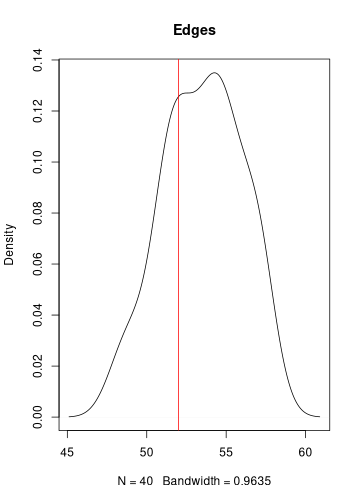
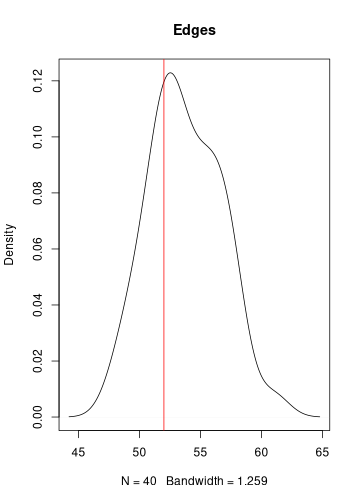
update README

diff --git a/README.md b/README.md
@@ -144,11 +144,11 @@ In addition, the `frag.get.layers` enables to extract as much layers as needed, 
 ```r
 frag.get.layers(simul.g, "layer", sel.layers = "1")
 #> $`1`
-#> IGRAPH 1a01c98 UN-- 25 17 -- 
+#> IGRAPH f6e6062 UN-- 25 17 -- 
 #> + attr: frag_type (g/c), name (v/c), object.id (v/n), layer (v/c)
-#> + edges from 1a01c98 (vertex names):
+#> + edges from f6e6062 (vertex names):
 #>  [1] 1 --2  3 --4  5 --6  7 --8  9 --10 11--12 13--14 15--16 17--18 19--20
-#> [11] 14--21 11--22 12--22 1 --23 7 --24 8 --24 16--25
+#> [11] 3 --21 4 --21 14--22 4 --23 15--24 14--25 22--25
 ```
 
 
@@ -164,7 +164,7 @@ frag.relations.by.layers(simul.g, "layer")
 #>    
 #>      1  2
 #>   1 17  0
-#>   2  0 18
+#>   2  0 21
 ```
 
 The diagonal of the matrix contain the number of intra-layers relationships and the other values refer to inter-layers relationships. Note that our simulated graph does not has connection relationships between layers 1 and 2.
@@ -177,8 +177,8 @@ simul2.g <-frag.simul.process(n.components=20, vertices=50, disturbance=.1)
 frag.relations.by.layers(simul2.g, "layer")
 #>    
 #>      1  2
-#>   1 19  3
-#>   2  3 12
+#>   1 19  5
+#>   2  5 13
 ```
 As expected, this graph has inter-layers connections.
 
@@ -233,11 +233,11 @@ cbind(
 #>                    [,1]      [,2]     
 #> n.components       20        20       
 #> vertices           50        50       
-#> edges              35        34       
-#> balance            0.5       0.5777778
-#> components.balance 0.5       0.56     
-#> disturbance        0         0.06     
-#> aggreg.factor      0.5168904 0.5302024
+#> edges              38        37       
+#> balance            0.5       0.5853659
+#> components.balance 0.5       0.62     
+#> disturbance        0         0.1      
+#> aggreg.factor      0.5913899 0.6614849
 #> planar             TRUE      TRUE
 ```
 
@@ -251,7 +251,7 @@ E(simul.g)$weight
 #> NULL
 simul.g <- frag.edges.weighting(simul.g, "layer")
 E(simul.g)$weight
-#>  [1] 3 3 2 2 4 4 4 2 4 4 4 3 3 2 2 3 3 2 2 2 2 3 4 4 4 3 3 2 2 5 6 5 5 5 3
+#>  [1] 2 5 4 5 2 2 2 2 4 3 3 2 2 4 5 5 4 4 4 4 4 4 4 6 6 6 6 6 6 2 2 2 2 4 4 4 2 2
 ```
 Note that the weighting of the edges is mandatory, otherwise an error is raised.
 
@@ -260,8 +260,8 @@ Then, the `frag.layers.cohesion`  function is used to calculate the cohesion val
 
 ```r
 frag.layers.cohesion(simul.g, "layer")
-#>         1         2 
-#> 0.4561404 0.5438596
+#>   1   2 
+#> 0.4 0.6
 ```
 
 Compare with the second artificial graph:
@@ -271,7 +271,7 @@ Compare with the second artificial graph:
 simul2.g <- frag.edges.weighting(simul2.g, "layer")
 frag.layers.cohesion(simul2.g, "layer")
 #>         1         2 
-#> 0.6002183 0.3092033
+#> 0.5844568 0.3055115
 ```
 These values tell how much each layer is cohesive (self-adhesive).
 
@@ -283,7 +283,7 @@ In complement, the `frag.layers.admixture` function returns a value quantifying 
 frag.layers.admixture(simul.g, "layer")
 #> [1] 0
 frag.layers.admixture(simul2.g, "layer")
-#> [1] 0.09057839
+#> [1] 0.1100317
 ```
 
 
@@ -310,14 +310,14 @@ Let's compare the cycles found in two layers of the artificial graph:
 ```r
 frag.cycles(simul.l1.g, kmax=5)
 #> 3-cycles 4-cycles 5-cycles 
-#>        3        1        0
+#>        7        5        1
 ```
 
 
 ```r
 frag.cycles(simul.l2.g, kmax=5)
 #> 3-cycles 4-cycles 5-cycles 
-#>        1        0        0
+#>        2        0        0
 ```
 
 
@@ -329,9 +329,9 @@ If the `cumulative` parameter is set to `TRUE`, the function returns the cumulat
 
 ```r
 frag.path.lengths(simul.l1.g)
-#> [1] 19  4  1
+#> [1] 19  2
 frag.path.lengths(simul.l2.g, cumulative=T)
-#> [1] 1.0000000 0.1666667
+#> [1] 1.0000000 0.3076923 0.1538462
 ```
 
 In a graph, the shortest path between two vertices is the path including the less number of edges. The diameter of a graph is its longest shortest path.
@@ -340,11 +340,11 @@ The `frag.diameters` function calculates the diameter of each component of the g
 
 ```r
 frag.diameters(simul.l1.g)
-#> 1 2 3 
-#> 9 2 1
+#>  1  2 
+#> 12  2
 frag.diameters(simul.l2.g)
-#> 1 2 
-#> 9 2
+#> 1 2 3 
+#> 9 1 1
 ```
 
 ## More on artificial graphs
@@ -389,13 +389,13 @@ frag.simul.process(initial.layers = 1,
                    components.balance = .4,
                    aggreg.factor = 0,
                    planar = T)
-#> IGRAPH d939fe8 UN-- 50 40 -- 
+#> IGRAPH d999841 UN-- 50 40 -- 
 #> + attr: frag_type (g/c), name (v/n), object.id (v/n), layer (v/c)
-#> + edges from d939fe8 (vertex names):
+#> + edges from d999841 (vertex names):
 #>  [1]  1-- 2  3-- 4  5-- 6  7-- 8  9--10 11--12 13--14 15--16 17--18 19--20
 #> [11] 21--22 23--24 25--26 27--28 29--30 31--32 33--34 35--36 37--38 39--40
-#> [21] 12--41 34--42 17--43 39--44  6--45 28--46 36--47 22--48  9--49  3--50
-#> [31] 21--48 35--47  4--50 10--49  5--45 18--43 27--46 11--41 33--42 40--44
+#> [21] 10--41 18--42 16--43  1--44 13--45 19--46 28--47  4--48 40--49 39--50
+#> [31]  9--41  3--48 17--42 20--46 15--43 39--49  2--44 27--47 14--45 40--50
 ```
 
 ### Hypotheses testing
@@ -466,11 +466,3 @@ abline(v=params$edges, col="red")
 <img src="man/figures/README-simulator-test2-examine-1.png" title="plot of chunk simulator-test2-examine" alt="plot of chunk simulator-test2-examine" style="display: block; margin: auto;" />
 
 
-```
-#> Warning in par(pardefault): le paramètre graphique "cin" ne peut être changé
-#> Warning in par(pardefault): le paramètre graphique "cra" ne peut être changé
-#> Warning in par(pardefault): le paramètre graphique "csi" ne peut être changé
-#> Warning in par(pardefault): le paramètre graphique "cxy" ne peut être changé
-#> Warning in par(pardefault): le paramètre graphique "din" ne peut être changé
-#> Warning in par(pardefault): le paramètre graphique "page" ne peut être changé
-```
